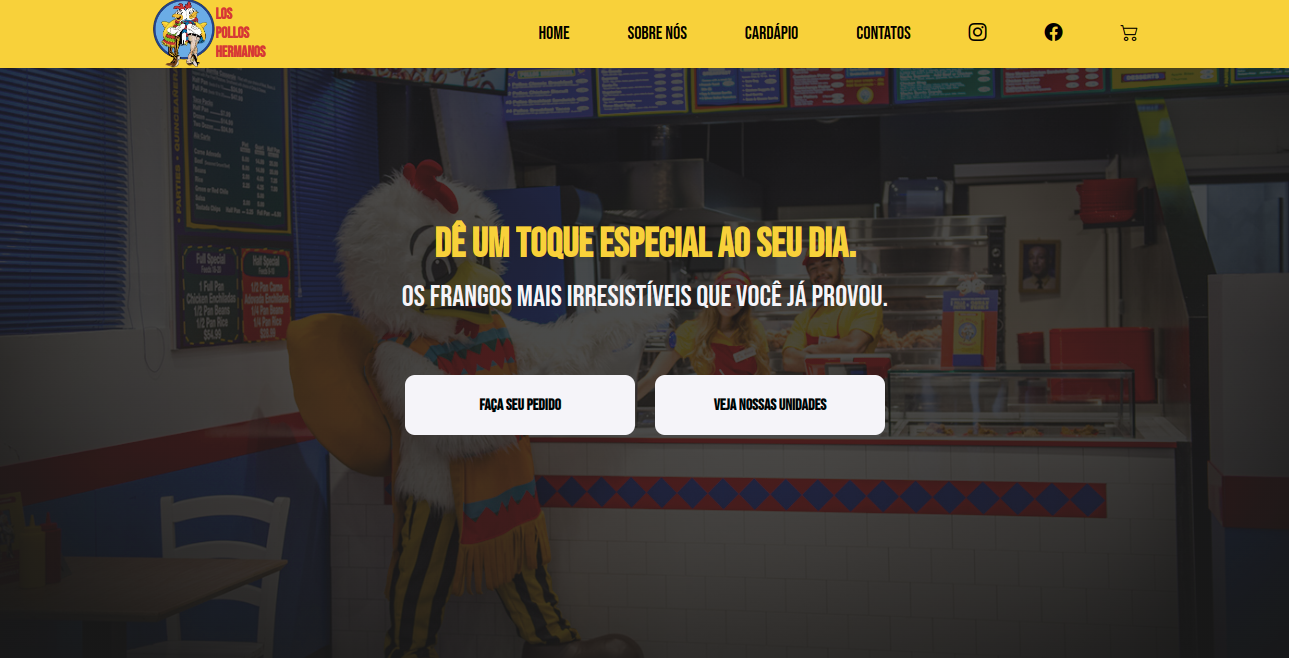
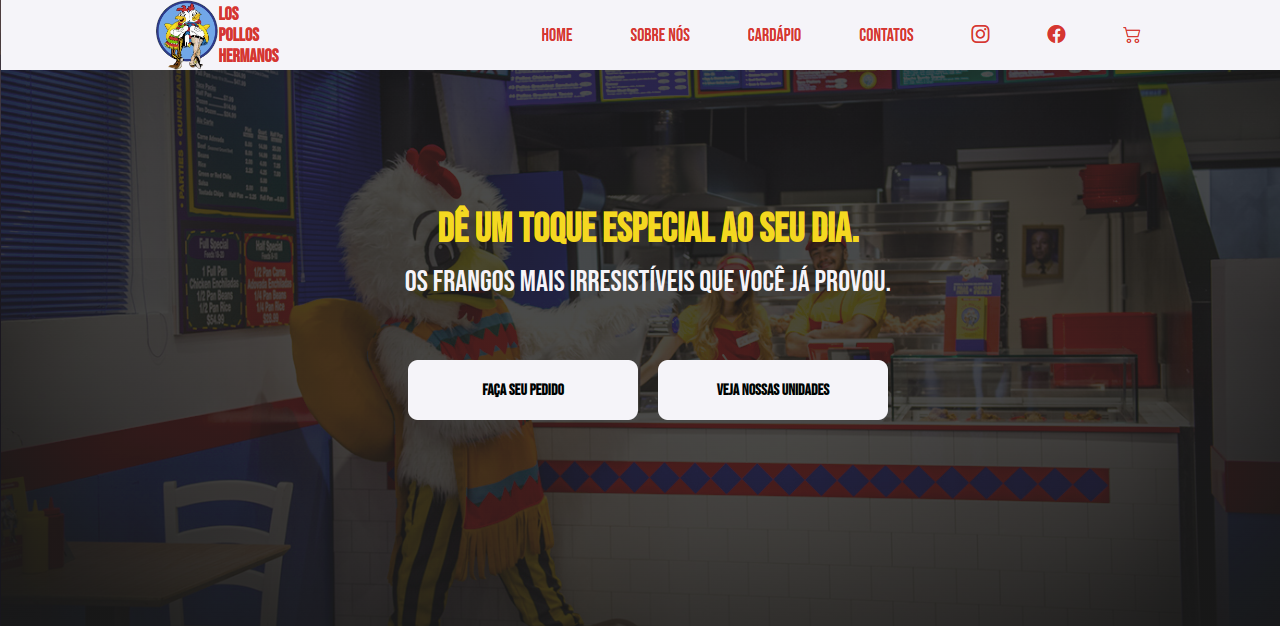
feat: adiciona secao 'sobre nos'

diff --git a/style.css b/style.css
@@ -33,7 +33,7 @@ html{
     display: flex;
     justify-content: space-around;
     align-items: center;
-    background-color: #F8D12F;
+    background-color: #F4F4F9;
     position: fixed;
     padding-left: 0rem; /*Era 30*/
 }
@@ -67,7 +67,7 @@ html{
 
 .content .list-menu li a{
     padding: 3rem 2rem 1rem 1 rem;
-    color: black; /*#D62828;*/
+    color: #D62828; /*#D62828;*/
     font-size: 1.8rem;
     text-transform: uppercase;
     font-weight: 500;
@@ -140,4 +140,54 @@ html{
     display: flex;
     justify-content: space-between;
    
+}
+
+/* Sobre nos*/
+
+.sobre-nos{
+    background-color: #F4F4F9;
+    width: 100%;
+    padding-bottom: 5rem;
+    color: black;
+    display: flex;
+    align-items: center;
+    justify-content: center;
+}
+
+.content-sobre {
+    
+    display: flex;
+    flex-direction: column;
+    align-items: center;
+    justify-content: center;
+}
+
+.sobre-nos img {
+    width: 400px;
+    height: auto;
+    margin-top: 6rem;
+    margin-left: 10rem;
+    
+}
+
+.main{
+    display: flex;
+    justify-content: space-between;
+}
+
+.content-sobre h2{
+    font-size: 6rem;
+    margin-bottom: 1rem;
+    color:#1A57A6;
+}
+
+.content-sobre p{
+    width: 600px;
+    text-align: center;
+    font-size: 1.8rem;
+}
+
+.highlight{
+    color: #D62828;
+    font-weight: bold;
 }

diff --git a/index.html b/index.html
@@ -39,7 +39,28 @@
             </div>
         </div>
     </section>
+    <section class="sobre-nos">
+        <div class="main">
+            <div class="content-sobre">
+                <h2>Sobre Nós</h2>
+                <p>
+                    Bem-vindo ao <span class="highlight">Los Pollos Hermanos</span>, onde a tradição e o sabor se encontram para
+                    proporcionar uma experiência única. Fundado com a missão de servir comida deliciosa em um ambiente
+                    acolhedor, nosso restaurante se tornou sinônimo de qualidade e satisfação.
+                </p>
 
+                <p>
+                    Inspirado por receitas familiares e técnicas culinárias artesanais, nossos pratos são preparados com
+                    os ingredientes mais frescos, garantindo sempre uma refeição saborosa e inesquecível. Não servimos
+                    apenas comida — servimos momentos de felicidade compartilhados com amigos e família.
+                </p>
+
+            </div>
+            <div class="img-cozinha">
+                <img src="./img/frente-restaurante.jpg">
+            </div>
+        </div>
+    </section>
 </body>
 
 </html>
